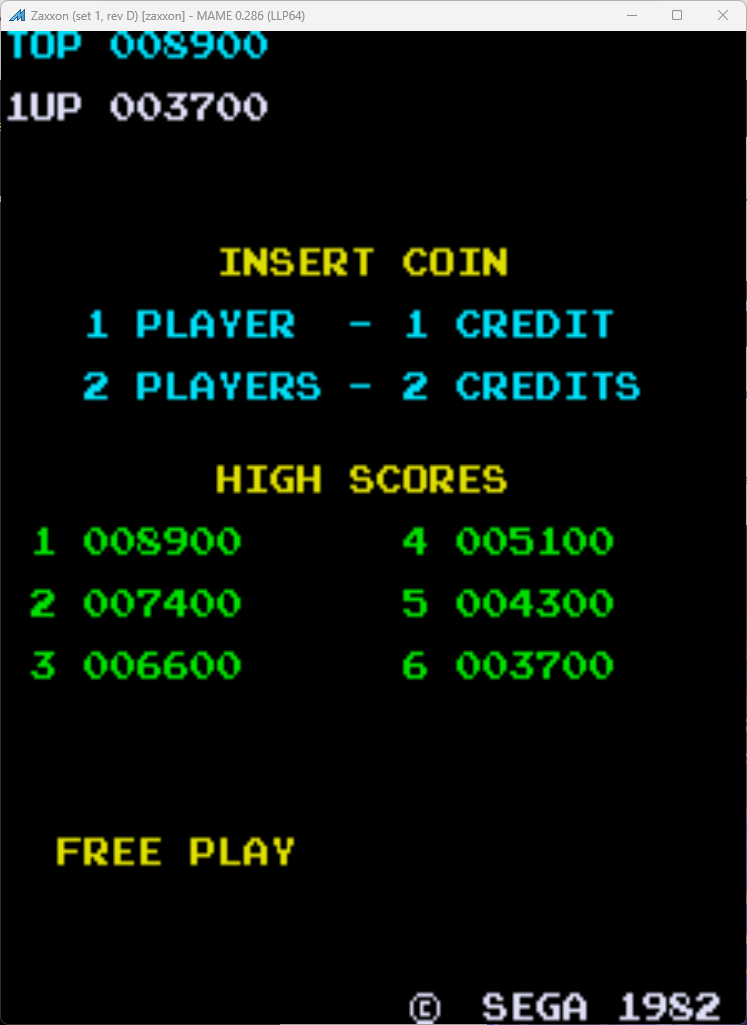
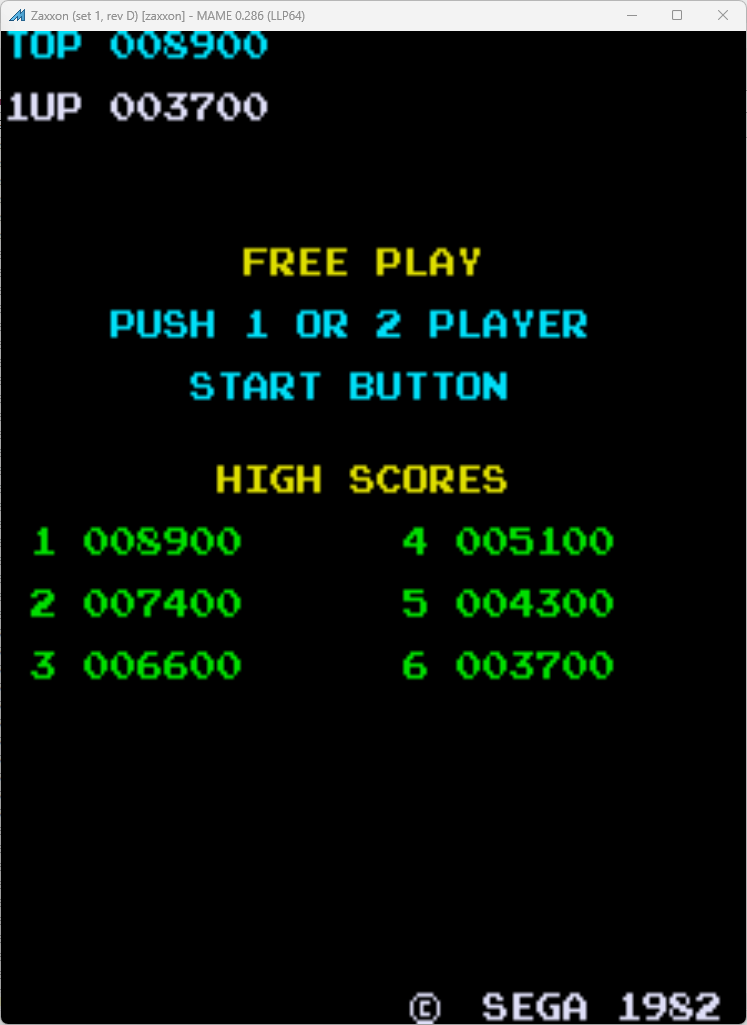
Updated score screen text to reflect freeplay

diff --git a/Zaxxon/README.md b/Zaxxon/README.md
@@ -12,8 +12,10 @@ One patch are provided for the *zaxxon* ROM set as found in MAME. It has been te
 | zaxxon_rom3d.u27     |    8k    |       27EAAD8D      |        U27      |
 
 ## To do list
-- replace "Insert Coin" phrase with "Push ..."
-- rewrite coin routine to jump to game start if applicable.
+- Rewrite coin routine to jump to game start if applicable.
+- Fix self test checksums
+    - Might not fix this, if it involves writing code in another ROM it might not be worth it considering the user can just put the old ROM back in.
+- Finish documentation
 
 ## Modification Documentation
 The freeplay mod was actually a weird one. The code has a suprising amount of similarities to Donkey Kong. For example, its game mode variable is exactly the same as DK. I want to investigate it a bit further. This documentation is unfinished.
